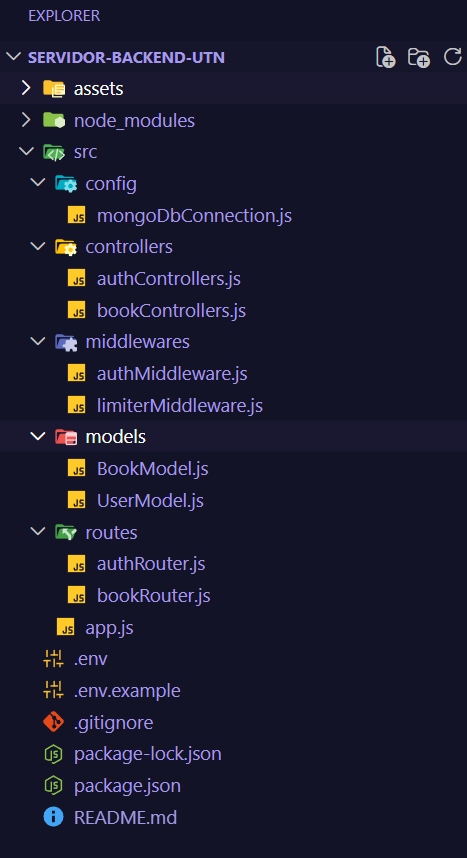
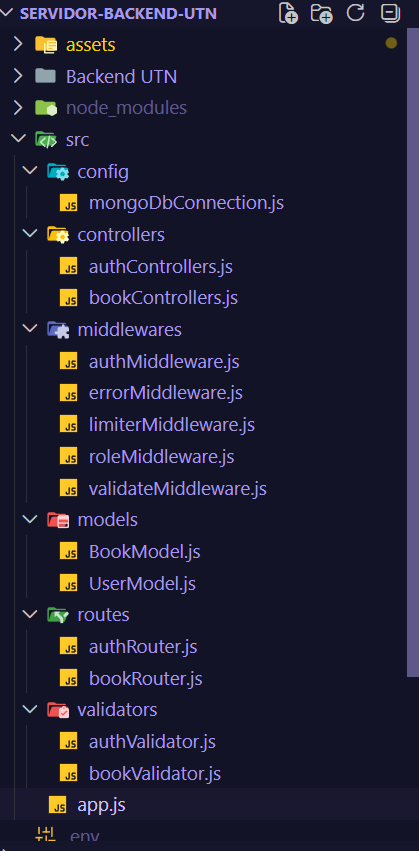
se modificó README y se actualizó la colección de Bruno

Changed region(s): [[0.0, 0.0, 0.6826, 1.0], [0.7446, 0.0, 1.0, 0.7944], [0.6516, 0.0, 0.7136, 0.0306]]

diff --git a/README.md b/README.md
@@ -1,6 +1,6 @@
 # 📚 API REST - Gestor de Libros
 
-API REST desarrollada con Express y MongoDB que implementa autenticación con JWT y arquitectura MVC. Permite a usuarios registrados gestionar su lista de libros personal.
+API REST desarrollada con Express y MongoDB que implementa autenticación con JWT, roles de usuario, validación con Zod y arquitectura MVC. Permite a usuarios registrados gestionar su lista de libros personal.
 
 ---
 
@@ -14,6 +14,8 @@ API REST desarrollada con Express y MongoDB que implementa autenticación con JW
 - dotenv
 - cors
 - express-rate-limit
+- zod
+- morgan
 
 ---
 
@@ -33,18 +35,23 @@ servidor-backend-utn/
 │   │   └── bookControllers.js
 │   ├── middlewares/
 │   │   ├── authMiddleware.js
-│   │   └── limiterMiddleware.js
+│   │   ├── errorMiddleware.js
+│   │   ├── limiterMiddleware.js
+│   │   ├── roleMiddleware.js
+│   │   └── validateMiddleware.js
 │   ├── models/
 │   │   ├── BookModel.js
 │   │   └── UserModel.js
-│   └── routes/
-│       ├── authRouter.js
-│       └── bookRouter.js
+│   ├── routes/
+│   │   ├── authRouter.js
+│   │   └── bookRouter.js
+│   └── validators/
+│       ├── authValidator.js
+│       └── bookValidator.js
 ├── app.js
 ├── .env.example
 ├── .gitignore
 └── package.json
-
 ```
 
 ---
@@ -117,6 +124,19 @@ La contraseña debe tener al menos:
 
 ---
 
+## 👑 Roles de usuario
+
+- `user` → rol por defecto al registrarse
+- `admin` → el primer usuario registrado es admin automáticamente
+
+El token JWT incluye el rol del usuario y es verificado en cada request protegida.
+
+### Crear usuario administrador
+
+Por seguridad, el rol `admin` se asigna automáticamente al primer usuario registrado. Todos los demás usuarios reciben el rol `user`.
+
+---
+
 ## 📡 Endpoints
 
 ### Autenticación (públicos)
@@ -126,15 +146,31 @@ La contraseña debe tener al menos:
 | POST | `/api/auth/register` | Registra un nuevo usuario |
 | POST | `/api/auth/login` | Inicia sesión y devuelve token |
 
-### Libros (privados — requieren token)
+### Libros (privados — rol user)
 
 | Método | Ruta | Descripción |
 |--------|------|-------------|
-| GET | `/api/books` | Lista todos los libros del usuario |
+| GET | `/api/books` | Lista los libros del usuario autenticado |
 | GET | `/api/books/:id` | Obtiene un libro por ID |
 | POST | `/api/books` | Crea un nuevo libro |
 | PATCH | `/api/books/:id` | Actualiza un libro |
 | DELETE | `/api/books/:id` | Elimina un libro |
+
+### Libros (privados — solo rol admin)
+
+| Método | Ruta | Descripción |
+|--------|------|-------------|
+| GET | `/api/books/all` | Lista todos los libros de todos los usuarios |
+| DELETE | `/api/books/all/:id` | Elimina cualquier libro |
+
+### Query params opcionales
+
+| Param | Ejemplo | Descripción |
+|-------|---------|-------------|
+| `page` | `?page=2` | Número de página (default: 1) |
+| `limit` | `?limit=5` | Elementos por página (default: 10) |
+| `sort` | `?sort=desc` | Ordenamiento por título (asc/desc) |
+| `filter` | `?filter=genre:Terror` | Filtrado por campo:valor |
 
 ---
 
@@ -197,6 +233,36 @@ DELETE /api/books/:id
 Authorization: Bearer <token>
 ```
 
+### Obtener libros con filtros (query params)
+
+```
+GET /api/books?page=1&limit=5&sort=desc&filter=genre:Fantasía
+Authorization: Bearer <token>
+```
+
+### Obtener todos los libros (solo admin)
+
+```
+GET /api/books/all
+Authorization: Bearer <token admin>
+```
+
+---
+
+## ✅ Validación con Zod
+
+Todos los endpoints validan los datos entrantes con Zod. Si los datos son inválidos, se devuelve un error 400 con detalles del campo y mensaje:
+
+![Validación con Zod](./assets/bruno-error-contraseña-zod.png)
+
+---
+
+## 📊 Logger
+
+El servidor registra cada request en la terminal con morgan:
+
+![Logger morgan](./assets/logger.png)
+
 ---
 
 ## 📸 Colección Bruno
@@ -208,10 +274,12 @@ Authorization: Bearer <token>
 ![Bruno POST Create book](./assets/bruno-create-book.png)
 ![Bruno PATCH Update book](./assets/bruno-update-book.png)
 ![Bruno DEL Delete book](./assets/bruno-delete-book.png)
-![Bruno POST Register](./assets/bruno-register.png)
-![Bruno POST Login](./assets/bruno-login.png)
+![Bruno POST Register](./assets/bruno-post-register-final.png)
+![Bruno POST Login](./assets/bruno-post-login-final.png)
+![Bruno GET all books admin](./assets/bruno-get-books-all-admin-200-final.png)
+![Bruno GET all books user forbidden](./assets/bruno-get-books-all-user-403-final.png)
 
-La colección de pruebas se encuentra en el archivo `Backend UTN/` en la raíz del proyecto.
+La colección de pruebas se encuentra en la carpeta `Backend UTN/` en la raíz del proyecto.
 
 ---
 
@@ -221,5 +289,7 @@ No se realizó deploy. El proyecto puede ejecutarse localmente siguiendo las ins
 
 ---
 
-Sofía De Alessandre — Jun 2026
+Sofía De Alessandre — Jul 2026 (Actualizado para TP integrador final)
+
+
 
